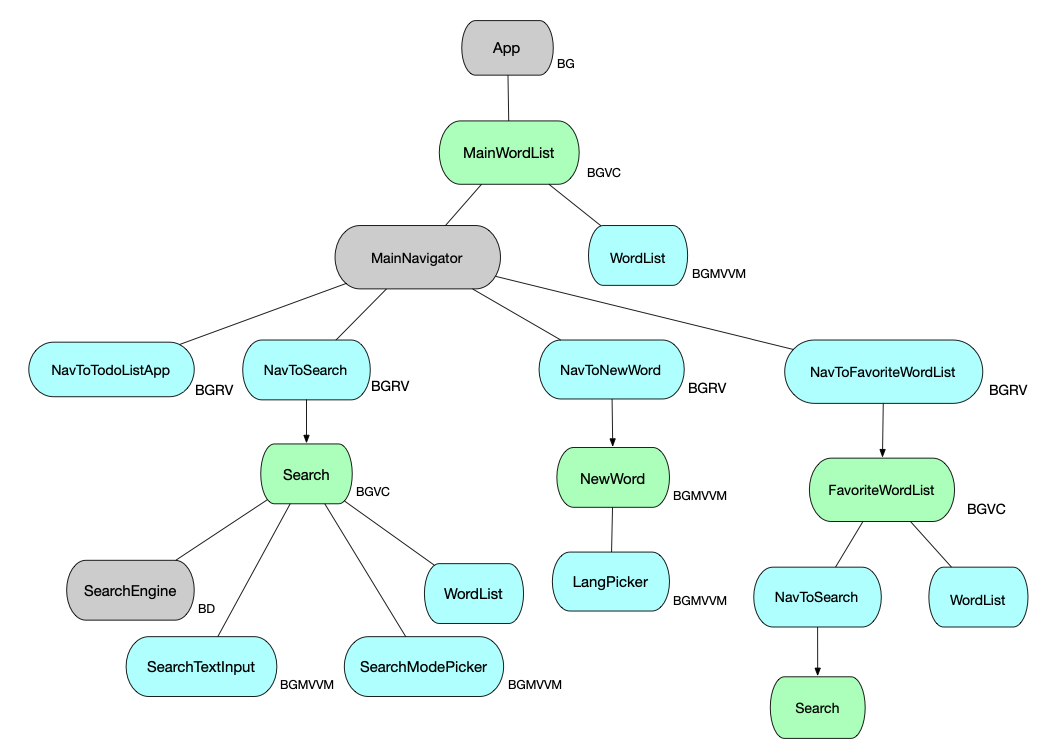
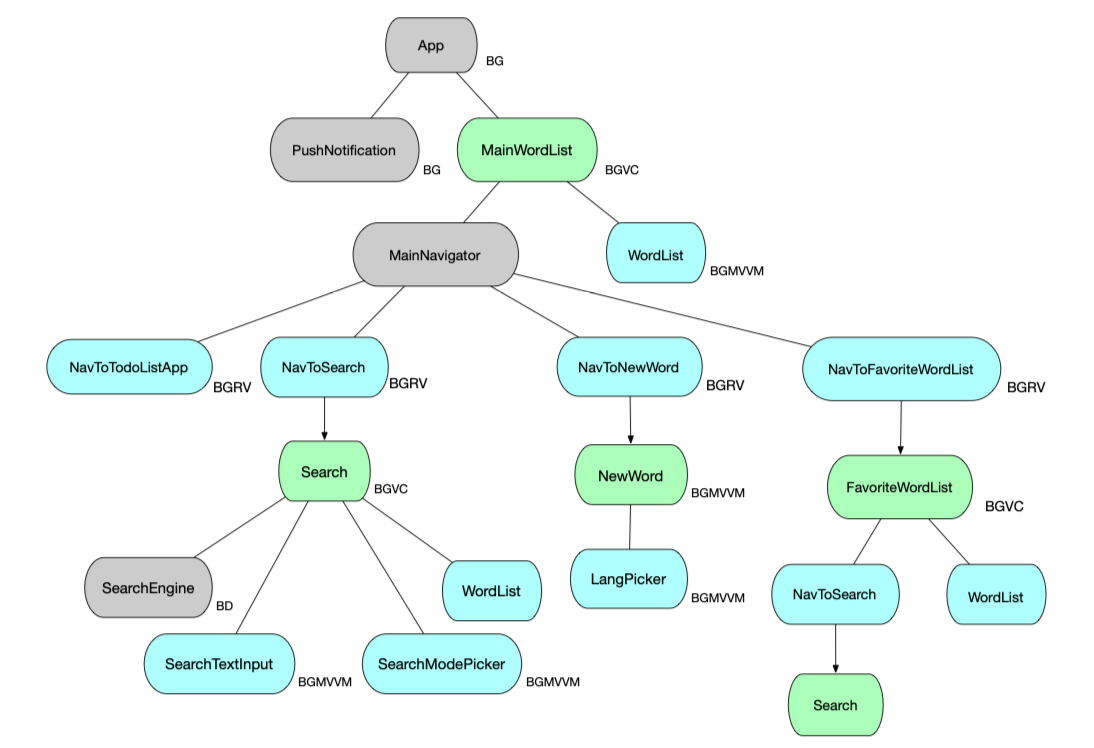
[TZ-12]: Push notification refactoring.

diff --git a/AppModules/PersonalDictionary/Source/App/Builder/AppBuilderImpl.swift b/AppModules/PersonalDictionary/Source/App/Builder/AppBuilderImpl.swift
@@ -15,16 +15,8 @@ protocol BaseDependency {
     var appConfig: AppConfig { get }
 }
 
-/// Зависимости вложенной фичи "Главный список слов".
-private struct MainWordListDependencyImpl: MainWordListDependency {
-
-    let navigationController: UINavigationController?
-
-    let appConfig: AppConfig
-}
-
-/// Зависимости вложенной фичи "Пуш-уведомления".
-private struct PushNotificationDependencyImpl: PushNotificationDependency {
+/// Зависимости вложенных фич "Главный список слов", "Пуш-уведомления".
+private struct BaseDependencyImpl: MainWordListDependency, PushNotificationDependency {
 
     let navigationController: UINavigationController?
 
@@ -40,23 +32,15 @@ public final class AppBuilderImpl: AppBuilder {
     /// Создать объект данного приложения.
     /// - Returns: объект приложения.
     public func build() -> App {
-        let navigationController = UINavigationController()
-        let appConfig = buildConfig()
+        let baseDependency = BaseDependencyImpl(
+            navigationController: UINavigationController(),
+            appConfig: buildConfig()
+        )
 
         return AppImpl(
-            navigationController: navigationController,
-            mainWordListBuilder: MainWordListBuilderImpl(
-                dependency: MainWordListDependencyImpl(
-                    navigationController: navigationController,
-                    appConfig: appConfig
-                )
-            ),
-            pushNotificationBuilder: PushNotificationBuilderImpl(
-                dependency: PushNotificationDependencyImpl(
-                    navigationController: navigationController,
-                    appConfig: appConfig
-                )
-            )
+            navigationController: baseDependency.navigationController,
+            mainWordListBuilder: MainWordListBuilderImpl(dependency: baseDependency),
+            pushNotificationBuilder: PushNotificationBuilderImpl(dependency: baseDependency)
         )
     }
 
@@ -77,7 +61,8 @@ public final class AppBuilderImpl: AppBuilder {
             bundle: bundle,
             langData: langData,
             ponsApiSecret: "",
-            isLoggingEnabled: true
+            isLoggingEnabled: true,
+            everydayPNTime: EverydayPNTime(hh: 19, mm: 30)
         )
     }
 }

diff --git a/AppModules/PersonalDictionary/Source/PushNotification/Domain/Content/PNContentImpl.swift b/AppModules/PersonalDictionary/Source/PushNotification/Domain/Content/PNContentImpl.swift
@@ -10,26 +10,20 @@ import UserNotifications
 /// Контент для пуш-уведомления.
 final class PNContentImpl: PNContent {
 
-    private let title: String
-    private let body: String
+    private let notificationContent = UNMutableNotificationContent()
 
     /// Инициализатор.
     /// - Parameters:
     ///  - title: заголовок уведомления.
     ///  - body: тело уведомления.
     init(title: String, body: String) {
-        self.title = title
-        self.body = body
+        notificationContent.title = title
+        notificationContent.body = body
+        notificationContent.sound = .default
     }
 
     /// Получить объект контента для системного пуш-уведомления.
     var get: UNNotificationContent {
-        let notificationContent = UNMutableNotificationContent()
-
-        notificationContent.title = title
-        notificationContent.body = body
-        notificationContent.sound = .default
-
-        return notificationContent
+        notificationContent
     }
 }

diff --git a/AppModules/PersonalDictionary/Source/PushNotification/Builder/PushNotificationBuilderImpl.swift b/AppModules/PersonalDictionary/Source/PushNotification/Builder/PushNotificationBuilderImpl.swift
@@ -32,11 +32,16 @@ final class PushNotificationBuilderImpl: PushNotificationBuilder {
     func build() -> PushNotificationService {
         let bundle = appConfig.bundle
         let langRepository = LangRepositoryImpl(userDefaults: UserDefaults.standard, data: appConfig.langData)
+        let everydayPNTime = appConfig.everydayPNTime
 
         return PushNotificationServiceImpl(
             userNotificationCenter: UNUserNotificationCenter.current(),
             application: UIApplication.shared,
-            pnTimeCalculator: PNTimeCalculatorImpl(hh: 19, mm: 30, calendar: Calendar.current),
+            pnTimeCalculator: EverydayPNTimeCalculator(
+                hh: everydayPNTime.hh,
+                mm: everydayPNTime.mm,
+                calendar: Calendar.current
+            ),
             pnContent: PNContentImpl(
                 title: bundle.moduleLocalizedString("Advice"),
                 body: bundle.moduleLocalizedString("It's time to add a new word to the dictionary.")

diff --git a/AppModules/PersonalDictionary/Source/PushNotification/Domain/PNTimeCalculator/EverydayPNTimeCalculator.swift b/AppModules/PersonalDictionary/Source/PushNotification/Domain/PNTimeCalculator/EverydayPNTimeCalculator.swift
@@ -1,5 +1,5 @@
 //
-//  PNTimeCalculatorImpl.swift
+//  EverydayPNTimeCalculator.swift
 //  PersonalDictionary
 //
 //  Created by Maxim Ivanov on 13.05.2022.
@@ -7,8 +7,8 @@
 
 import Foundation
 
-/// Реализация типа для вычисления времени возникновения пуш-уведомления.
-final class PNTimeCalculatorImpl: PNTimeCalculator {
+/// Реализация типа для вычисления времени возникновения ежедневного пуш-уведомления.
+final class EverydayPNTimeCalculator: PNTimeCalculator {
 
     private let hh: Int
     private let mm: Int

diff --git a/AppModules/PersonalDictionary/Source/App/App/AppСonfig.swift b/AppModules/PersonalDictionary/Source/App/App/AppСonfig.swift
@@ -19,4 +19,17 @@ struct AppConfig {
 
     /// Флаг вкл/выкл логирование в приложении
     let isLoggingEnabled: Bool
+
+    /// Время ежедневного пуш-уведомления
+    let everydayPNTime: EverydayPNTime
+}
+
+/// Время ежедневного пуш-уведомления
+struct EverydayPNTime {
+
+    /// Час
+    let hh: Int
+
+    /// Минуты
+    let mm: Int
 }

diff --git a/Readme.md b/Readme.md
@@ -12,6 +12,8 @@
 
 В общем списке избранные слова помечаются звездочкой.
 
+Локальные пуш-уведомления с предложением добавить новое слово в личный словарь.
+
 ### Используемые технологии.
 
 UI: UIKit, вёрстка из кода.
